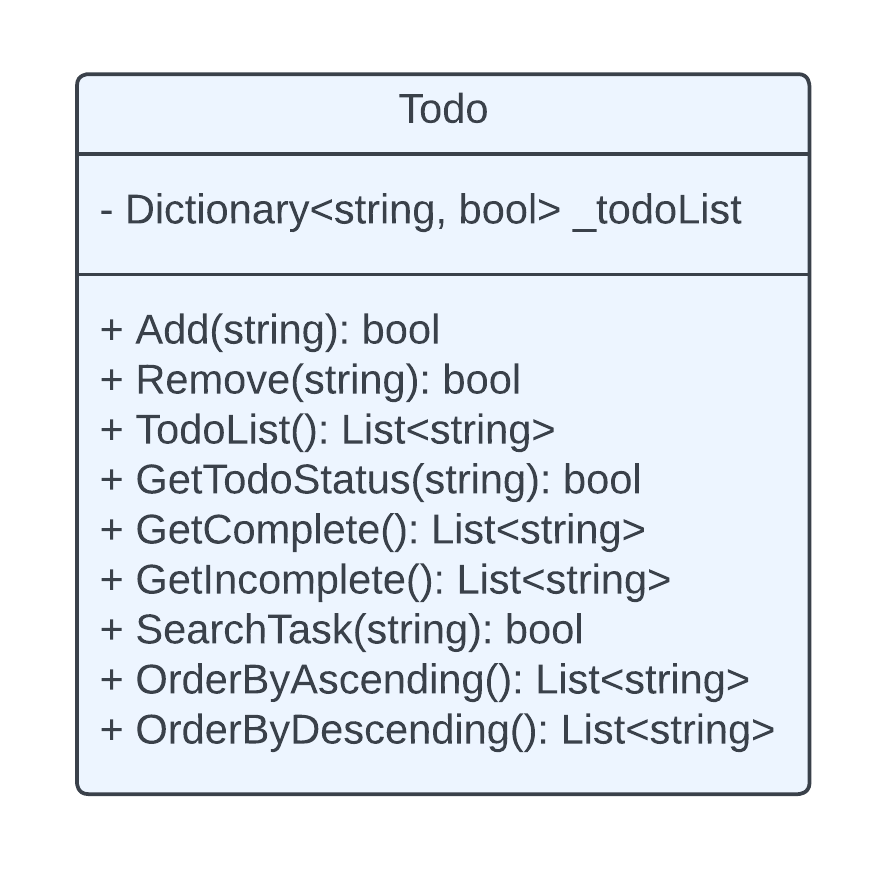
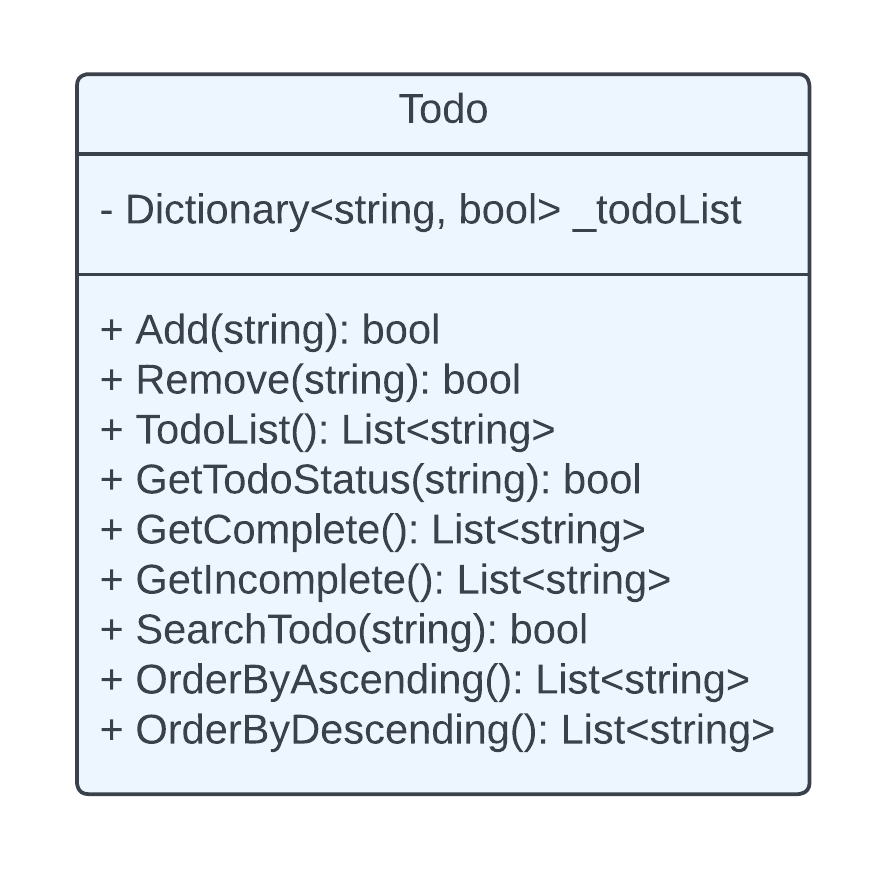
Changed SearchTask to SearchTodo

Changed region(s): [[0.3058, 0.6828, 0.6727, 0.7448]]

diff --git a/tdd-todo-list.CSharp.Test/CoreTests.cs b/tdd-todo-list.CSharp.Test/CoreTests.cs
@@ -11,7 +11,11 @@ namespace tdd_todo_list.CSharp.Test
 
         // I want to add tasks to my todo list.
         [Test]
-        public void Test() { }
+        public void AddSingleTodo() 
+        {
+            var todoList = new Todo();
+            var todo = "Walk the turlte";
+        }
         //I want to see all the tasks in my todo list.
         //I want to change the status of a task between incomplete and complete.
         //I want to be able to get only the complete tasks.

diff --git a/tdd-todo-list.CSharp.Main/Todo.cs b/tdd-todo-list.CSharp.Main/Todo.cs
@@ -25,7 +25,7 @@ namespace tdd_todo_list.CSharp.Main
         {
             throw new NotImplementedException();
         }
-        public bool SearchTask(string todo) 
+        public bool SearchTodo(string todo) 
         {
             throw new NotImplementedException();
         }
